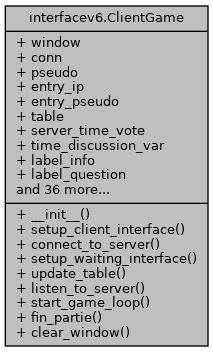
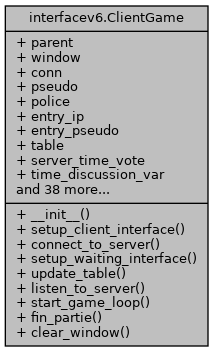
deploy: 827ce9b3ad2253a3373aaa1aae10093dba4a4992

Changed region(s): [[0.1408, 0.0938, 0.6761, 0.5625], [0.6761, 0.4688, 0.7606, 0.5312], [0.6761, 0.4062, 0.7606, 0.4375]]

diff --git a/html/classinterfacev6_1_1HostGame-members.html b/html/classinterfacev6_1_1HostGame-members.html
@@ -88,28 +88,31 @@ $(function() {
   <tr bgcolor="#f0f0f0" class="even"><td class="entry"><b>IP</b> (defined in <a class="el" href="classinterfacev6_1_1HostGame.html">interfacev6.HostGame</a>)</td><td class="entry"><a class="el" href="classinterfacev6_1_1HostGame.html">interfacev6.HostGame</a></td><td class="entry"></td></tr>
   <tr><td class="entry"><a class="el" href="classinterfacev6_1_1HostGame.html#a56428846b9a201a9885fa3160d684f7d">listen_for_clients</a>(self)</td><td class="entry"><a class="el" href="classinterfacev6_1_1HostGame.html">interfacev6.HostGame</a></td><td class="entry"></td></tr>
   <tr bgcolor="#f0f0f0" class="even"><td class="entry"><b>mode</b> (defined in <a class="el" href="classinterfacev6_1_1HostGame.html">interfacev6.HostGame</a>)</td><td class="entry"><a class="el" href="classinterfacev6_1_1HostGame.html">interfacev6.HostGame</a></td><td class="entry"></td></tr>
-  <tr><td class="entry"><a class="el" href="classinterfacev6_1_1HostGame.html#abfedbd58d3091729c78088427e80f7d2">on_window_close</a>(self)</td><td class="entry"><a class="el" href="classinterfacev6_1_1HostGame.html">interfacev6.HostGame</a></td><td class="entry"></td></tr>
-  <tr class="even"><td class="entry"><a class="el" href="classinterfacev6_1_1HostGame.html#a1d2d3b781bbcf1045a2733b1bc65d0d5">parcourir</a>(self)</td><td class="entry"><a class="el" href="classinterfacev6_1_1HostGame.html">interfacev6.HostGame</a></td><td class="entry"></td></tr>
+  <tr bgcolor="#f0f0f0"><td class="entry"><b>mode_banner</b> (defined in <a class="el" href="classinterfacev6_1_1HostGame.html">interfacev6.HostGame</a>)</td><td class="entry"><a class="el" href="classinterfacev6_1_1HostGame.html">interfacev6.HostGame</a></td><td class="entry"></td></tr>
+  <tr class="even"><td class="entry"><a class="el" href="classinterfacev6_1_1HostGame.html#abfedbd58d3091729c78088427e80f7d2">on_window_close</a>(self)</td><td class="entry"><a class="el" href="classinterfacev6_1_1HostGame.html">interfacev6.HostGame</a></td><td class="entry"></td></tr>
+  <tr><td class="entry"><a class="el" href="classinterfacev6_1_1HostGame.html#a1d2d3b781bbcf1045a2733b1bc65d0d5">parcourir</a>(self)</td><td class="entry"><a class="el" href="classinterfacev6_1_1HostGame.html">interfacev6.HostGame</a></td><td class="entry"></td></tr>
+  <tr bgcolor="#f0f0f0" class="even"><td class="entry"><b>parent</b> (defined in <a class="el" href="classinterfacev6_1_1HostGame.html">interfacev6.HostGame</a>)</td><td class="entry"><a class="el" href="classinterfacev6_1_1HostGame.html">interfacev6.HostGame</a></td><td class="entry"></td></tr>
   <tr><td class="entry"><a class="el" href="classinterfacev6_1_1HostGame.html#a9f2917aa5d8121963e96839f6a00e943">paused</a></td><td class="entry"><a class="el" href="classinterfacev6_1_1HostGame.html">interfacev6.HostGame</a></td><td class="entry"></td></tr>
-  <tr bgcolor="#f0f0f0" class="even"><td class="entry"><b>PORT</b> (defined in <a class="el" href="classinterfacev6_1_1HostGame.html">interfacev6.HostGame</a>)</td><td class="entry"><a class="el" href="classinterfacev6_1_1HostGame.html">interfacev6.HostGame</a></td><td class="entry"></td></tr>
-  <tr bgcolor="#f0f0f0"><td class="entry"><b>pseudo_list</b> (defined in <a class="el" href="classinterfacev6_1_1HostGame.html">interfacev6.HostGame</a>)</td><td class="entry"><a class="el" href="classinterfacev6_1_1HostGame.html">interfacev6.HostGame</a></td><td class="entry"></td></tr>
-  <tr bgcolor="#f0f0f0" class="even"><td class="entry"><b>resultat</b> (defined in <a class="el" href="classinterfacev6_1_1HostGame.html">interfacev6.HostGame</a>)</td><td class="entry"><a class="el" href="classinterfacev6_1_1HostGame.html">interfacev6.HostGame</a></td><td class="entry"></td></tr>
-  <tr bgcolor="#f0f0f0"><td class="entry"><b>server_socket</b> (defined in <a class="el" href="classinterfacev6_1_1HostGame.html">interfacev6.HostGame</a>)</td><td class="entry"><a class="el" href="classinterfacev6_1_1HostGame.html">interfacev6.HostGame</a></td><td class="entry"></td></tr>
-  <tr bgcolor="#f0f0f0" class="even"><td class="entry"><b>server_thread</b> (defined in <a class="el" href="classinterfacev6_1_1HostGame.html">interfacev6.HostGame</a>)</td><td class="entry"><a class="el" href="classinterfacev6_1_1HostGame.html">interfacev6.HostGame</a></td><td class="entry"></td></tr>
-  <tr><td class="entry"><a class="el" href="classinterfacev6_1_1HostGame.html#a09efd650f6be7e1ff68a61d6db20fc78">setup_host_interface</a>(self)</td><td class="entry"><a class="el" href="classinterfacev6_1_1HostGame.html">interfacev6.HostGame</a></td><td class="entry"></td></tr>
-  <tr class="even"><td class="entry"><a class="el" href="classinterfacev6_1_1HostGame.html#a11f53d892508a0cd7a52ef3b9e9b1e76">start_game</a>(self)</td><td class="entry"><a class="el" href="classinterfacev6_1_1HostGame.html">interfacev6.HostGame</a></td><td class="entry"></td></tr>
-  <tr><td class="entry"><a class="el" href="classinterfacev6_1_1HostGame.html#a781cefc62b73ce4b10acc6ef547325c0">start_game_loop</a>(self)</td><td class="entry"><a class="el" href="classinterfacev6_1_1HostGame.html">interfacev6.HostGame</a></td><td class="entry"></td></tr>
-  <tr class="even"><td class="entry"><a class="el" href="classinterfacev6_1_1HostGame.html#a540f26cf803274e80af10d623d546dd6">start_server_thread</a>(self)</td><td class="entry"><a class="el" href="classinterfacev6_1_1HostGame.html">interfacev6.HostGame</a></td><td class="entry"></td></tr>
-  <tr bgcolor="#f0f0f0"><td class="entry"><b>started</b> (defined in <a class="el" href="classinterfacev6_1_1HostGame.html">interfacev6.HostGame</a>)</td><td class="entry"><a class="el" href="classinterfacev6_1_1HostGame.html">interfacev6.HostGame</a></td><td class="entry"></td></tr>
-  <tr bgcolor="#f0f0f0" class="even"><td class="entry"><b>stop_server</b> (defined in <a class="el" href="classinterfacev6_1_1HostGame.html">interfacev6.HostGame</a>)</td><td class="entry"><a class="el" href="classinterfacev6_1_1HostGame.html">interfacev6.HostGame</a></td><td class="entry"></td></tr>
-  <tr bgcolor="#f0f0f0"><td class="entry"><b>table</b> (defined in <a class="el" href="classinterfacev6_1_1HostGame.html">interfacev6.HostGame</a>)</td><td class="entry"><a class="el" href="classinterfacev6_1_1HostGame.html">interfacev6.HostGame</a></td><td class="entry"></td></tr>
-  <tr bgcolor="#f0f0f0" class="even"><td class="entry"><b>time_discussion_entry</b> (defined in <a class="el" href="classinterfacev6_1_1HostGame.html">interfacev6.HostGame</a>)</td><td class="entry"><a class="el" href="classinterfacev6_1_1HostGame.html">interfacev6.HostGame</a></td><td class="entry"></td></tr>
-  <tr bgcolor="#f0f0f0"><td class="entry"><b>time_discussion_var</b> (defined in <a class="el" href="classinterfacev6_1_1HostGame.html">interfacev6.HostGame</a>)</td><td class="entry"><a class="el" href="classinterfacev6_1_1HostGame.html">interfacev6.HostGame</a></td><td class="entry"></td></tr>
-  <tr bgcolor="#f0f0f0" class="even"><td class="entry"><b>time_vote_entry</b> (defined in <a class="el" href="classinterfacev6_1_1HostGame.html">interfacev6.HostGame</a>)</td><td class="entry"><a class="el" href="classinterfacev6_1_1HostGame.html">interfacev6.HostGame</a></td><td class="entry"></td></tr>
-  <tr bgcolor="#f0f0f0"><td class="entry"><b>time_vote_var</b> (defined in <a class="el" href="classinterfacev6_1_1HostGame.html">interfacev6.HostGame</a>)</td><td class="entry"><a class="el" href="classinterfacev6_1_1HostGame.html">interfacev6.HostGame</a></td><td class="entry"></td></tr>
-  <tr class="even"><td class="entry"><a class="el" href="classinterfacev6_1_1HostGame.html#a312d3ac36fa72afc23f6dd1d39577027">update_table</a>(self)</td><td class="entry"><a class="el" href="classinterfacev6_1_1HostGame.html">interfacev6.HostGame</a></td><td class="entry"></td></tr>
-  <tr bgcolor="#f0f0f0"><td class="entry"><b>votes</b> (defined in <a class="el" href="classinterfacev6_1_1HostGame.html">interfacev6.HostGame</a>)</td><td class="entry"><a class="el" href="classinterfacev6_1_1HostGame.html">interfacev6.HostGame</a></td><td class="entry"></td></tr>
-  <tr bgcolor="#f0f0f0" class="even"><td class="entry"><b>window</b> (defined in <a class="el" href="classinterfacev6_1_1HostGame.html">interfacev6.HostGame</a>)</td><td class="entry"><a class="el" href="classinterfacev6_1_1HostGame.html">interfacev6.HostGame</a></td><td class="entry"></td></tr>
+  <tr bgcolor="#f0f0f0" class="even"><td class="entry"><b>police</b> (defined in <a class="el" href="classinterfacev6_1_1HostGame.html">interfacev6.HostGame</a>)</td><td class="entry"><a class="el" href="classinterfacev6_1_1HostGame.html">interfacev6.HostGame</a></td><td class="entry"></td></tr>
+  <tr bgcolor="#f0f0f0"><td class="entry"><b>PORT</b> (defined in <a class="el" href="classinterfacev6_1_1HostGame.html">interfacev6.HostGame</a>)</td><td class="entry"><a class="el" href="classinterfacev6_1_1HostGame.html">interfacev6.HostGame</a></td><td class="entry"></td></tr>
+  <tr bgcolor="#f0f0f0" class="even"><td class="entry"><b>pseudo_list</b> (defined in <a class="el" href="classinterfacev6_1_1HostGame.html">interfacev6.HostGame</a>)</td><td class="entry"><a class="el" href="classinterfacev6_1_1HostGame.html">interfacev6.HostGame</a></td><td class="entry"></td></tr>
+  <tr bgcolor="#f0f0f0"><td class="entry"><b>resultat</b> (defined in <a class="el" href="classinterfacev6_1_1HostGame.html">interfacev6.HostGame</a>)</td><td class="entry"><a class="el" href="classinterfacev6_1_1HostGame.html">interfacev6.HostGame</a></td><td class="entry"></td></tr>
+  <tr bgcolor="#f0f0f0" class="even"><td class="entry"><b>server_socket</b> (defined in <a class="el" href="classinterfacev6_1_1HostGame.html">interfacev6.HostGame</a>)</td><td class="entry"><a class="el" href="classinterfacev6_1_1HostGame.html">interfacev6.HostGame</a></td><td class="entry"></td></tr>
+  <tr bgcolor="#f0f0f0"><td class="entry"><b>server_thread</b> (defined in <a class="el" href="classinterfacev6_1_1HostGame.html">interfacev6.HostGame</a>)</td><td class="entry"><a class="el" href="classinterfacev6_1_1HostGame.html">interfacev6.HostGame</a></td><td class="entry"></td></tr>
+  <tr class="even"><td class="entry"><a class="el" href="classinterfacev6_1_1HostGame.html#a09efd650f6be7e1ff68a61d6db20fc78">setup_host_interface</a>(self)</td><td class="entry"><a class="el" href="classinterfacev6_1_1HostGame.html">interfacev6.HostGame</a></td><td class="entry"></td></tr>
+  <tr><td class="entry"><a class="el" href="classinterfacev6_1_1HostGame.html#a11f53d892508a0cd7a52ef3b9e9b1e76">start_game</a>(self)</td><td class="entry"><a class="el" href="classinterfacev6_1_1HostGame.html">interfacev6.HostGame</a></td><td class="entry"></td></tr>
+  <tr class="even"><td class="entry"><a class="el" href="classinterfacev6_1_1HostGame.html#a781cefc62b73ce4b10acc6ef547325c0">start_game_loop</a>(self)</td><td class="entry"><a class="el" href="classinterfacev6_1_1HostGame.html">interfacev6.HostGame</a></td><td class="entry"></td></tr>
+  <tr><td class="entry"><a class="el" href="classinterfacev6_1_1HostGame.html#a540f26cf803274e80af10d623d546dd6">start_server_thread</a>(self)</td><td class="entry"><a class="el" href="classinterfacev6_1_1HostGame.html">interfacev6.HostGame</a></td><td class="entry"></td></tr>
+  <tr bgcolor="#f0f0f0" class="even"><td class="entry"><b>started</b> (defined in <a class="el" href="classinterfacev6_1_1HostGame.html">interfacev6.HostGame</a>)</td><td class="entry"><a class="el" href="classinterfacev6_1_1HostGame.html">interfacev6.HostGame</a></td><td class="entry"></td></tr>
+  <tr bgcolor="#f0f0f0"><td class="entry"><b>stop_server</b> (defined in <a class="el" href="classinterfacev6_1_1HostGame.html">interfacev6.HostGame</a>)</td><td class="entry"><a class="el" href="classinterfacev6_1_1HostGame.html">interfacev6.HostGame</a></td><td class="entry"></td></tr>
+  <tr bgcolor="#f0f0f0" class="even"><td class="entry"><b>table</b> (defined in <a class="el" href="classinterfacev6_1_1HostGame.html">interfacev6.HostGame</a>)</td><td class="entry"><a class="el" href="classinterfacev6_1_1HostGame.html">interfacev6.HostGame</a></td><td class="entry"></td></tr>
+  <tr bgcolor="#f0f0f0"><td class="entry"><b>time_discussion_entry</b> (defined in <a class="el" href="classinterfacev6_1_1HostGame.html">interfacev6.HostGame</a>)</td><td class="entry"><a class="el" href="classinterfacev6_1_1HostGame.html">interfacev6.HostGame</a></td><td class="entry"></td></tr>
+  <tr bgcolor="#f0f0f0" class="even"><td class="entry"><b>time_discussion_var</b> (defined in <a class="el" href="classinterfacev6_1_1HostGame.html">interfacev6.HostGame</a>)</td><td class="entry"><a class="el" href="classinterfacev6_1_1HostGame.html">interfacev6.HostGame</a></td><td class="entry"></td></tr>
+  <tr bgcolor="#f0f0f0"><td class="entry"><b>time_vote_entry</b> (defined in <a class="el" href="classinterfacev6_1_1HostGame.html">interfacev6.HostGame</a>)</td><td class="entry"><a class="el" href="classinterfacev6_1_1HostGame.html">interfacev6.HostGame</a></td><td class="entry"></td></tr>
+  <tr bgcolor="#f0f0f0" class="even"><td class="entry"><b>time_vote_var</b> (defined in <a class="el" href="classinterfacev6_1_1HostGame.html">interfacev6.HostGame</a>)</td><td class="entry"><a class="el" href="classinterfacev6_1_1HostGame.html">interfacev6.HostGame</a></td><td class="entry"></td></tr>
+  <tr><td class="entry"><a class="el" href="classinterfacev6_1_1HostGame.html#a312d3ac36fa72afc23f6dd1d39577027">update_table</a>(self)</td><td class="entry"><a class="el" href="classinterfacev6_1_1HostGame.html">interfacev6.HostGame</a></td><td class="entry"></td></tr>
+  <tr bgcolor="#f0f0f0" class="even"><td class="entry"><b>votes</b> (defined in <a class="el" href="classinterfacev6_1_1HostGame.html">interfacev6.HostGame</a>)</td><td class="entry"><a class="el" href="classinterfacev6_1_1HostGame.html">interfacev6.HostGame</a></td><td class="entry"></td></tr>
+  <tr bgcolor="#f0f0f0"><td class="entry"><b>window</b> (defined in <a class="el" href="classinterfacev6_1_1HostGame.html">interfacev6.HostGame</a>)</td><td class="entry"><a class="el" href="classinterfacev6_1_1HostGame.html">interfacev6.HostGame</a></td><td class="entry"></td></tr>
 </table></div><!-- contents -->
 <!-- start footer part -->
 <hr class="footer"/><address class="footer"><small>

diff --git a/html/classinterfacev6_1_1HostGame.html b/html/classinterfacev6_1_1HostGame.html
@@ -118,6 +118,9 @@ Public Member Functions</h2></td></tr>
 </table><table class="memberdecls">
 <tr class="heading"><td colspan="2"><h2 class="groupheader"><a name="pub-attribs"></a>
 Public Attributes</h2></td></tr>
+<tr class="memitem:a5328909b6154b5bed914061279eef3b4"><td class="memItemLeft" align="right" valign="top"><a id="a5328909b6154b5bed914061279eef3b4"></a>
+&#160;</td><td class="memItemRight" valign="bottom"><b>parent</b></td></tr>
+<tr class="separator:a5328909b6154b5bed914061279eef3b4"><td class="memSeparator" colspan="2">&#160;</td></tr>
 <tr class="memitem:ab62100487b5157e6ad52b36ba27d4a4d"><td class="memItemLeft" align="right" valign="top"><a id="ab62100487b5157e6ad52b36ba27d4a4d"></a>
 &#160;</td><td class="memItemRight" valign="bottom"><b>PORT</b></td></tr>
 <tr class="separator:ab62100487b5157e6ad52b36ba27d4a4d"><td class="memSeparator" colspan="2">&#160;</td></tr>
@@ -142,9 +145,15 @@ Public Attributes</h2></td></tr>
 <tr class="memitem:a87b3e2d88edc38a6935b1b1f2d83d79b"><td class="memItemLeft" align="right" valign="top"><a id="a87b3e2d88edc38a6935b1b1f2d83d79b"></a>
 &#160;</td><td class="memItemRight" valign="bottom"><b>window</b></td></tr>
 <tr class="separator:a87b3e2d88edc38a6935b1b1f2d83d79b"><td class="memSeparator" colspan="2">&#160;</td></tr>
+<tr class="memitem:a7a326b80cd5ea5c98e8272a588677ca1"><td class="memItemLeft" align="right" valign="top"><a id="a7a326b80cd5ea5c98e8272a588677ca1"></a>
+&#160;</td><td class="memItemRight" valign="bottom"><b>police</b></td></tr>
+<tr class="separator:a7a326b80cd5ea5c98e8272a588677ca1"><td class="memSeparator" colspan="2">&#160;</td></tr>
 <tr class="memitem:a40670f5da334987b8ba4d7c4fba8ff5f"><td class="memItemLeft" align="right" valign="top"><a id="a40670f5da334987b8ba4d7c4fba8ff5f"></a>
 &#160;</td><td class="memItemRight" valign="bottom"><b>table</b></td></tr>
 <tr class="separator:a40670f5da334987b8ba4d7c4fba8ff5f"><td class="memSeparator" colspan="2">&#160;</td></tr>
+<tr class="memitem:a41515d446186859ce69962a1ab845c49"><td class="memItemLeft" align="right" valign="top"><a id="a41515d446186859ce69962a1ab845c49"></a>
+&#160;</td><td class="memItemRight" valign="bottom"><b>mode_banner</b></td></tr>
+<tr class="separator:a41515d446186859ce69962a1ab845c49"><td class="memSeparator" colspan="2">&#160;</td></tr>
 <tr class="memitem:ac4ece4f13047e180a6ec39b22d9322c4"><td class="memItemLeft" align="right" valign="top"><a id="ac4ece4f13047e180a6ec39b22d9322c4"></a>
 &#160;</td><td class="memItemRight" valign="bottom"><b>choix_var</b></td></tr>
 <tr class="separator:ac4ece4f13047e180a6ec39b22d9322c4"><td class="memSeparator" colspan="2">&#160;</td></tr>

diff --git a/html/classinterfacev6_1_1ClientGame-members.html b/html/classinterfacev6_1_1ClientGame-members.html
@@ -114,6 +114,8 @@ $(function() {
   <tr bgcolor="#f0f0f0" class="even"><td class="entry"><b>label_question</b> (defined in <a class="el" href="classinterfacev6_1_1ClientGame.html">interfacev6.ClientGame</a>)</td><td class="entry"><a class="el" href="classinterfacev6_1_1ClientGame.html">interfacev6.ClientGame</a></td><td class="entry"></td></tr>
   <tr bgcolor="#f0f0f0"><td class="entry"><b>label_vote</b> (defined in <a class="el" href="classinterfacev6_1_1ClientGame.html">interfacev6.ClientGame</a>)</td><td class="entry"><a class="el" href="classinterfacev6_1_1ClientGame.html">interfacev6.ClientGame</a></td><td class="entry"></td></tr>
   <tr class="even"><td class="entry"><a class="el" href="classinterfacev6_1_1ClientGame.html#a8f59072f388172f6f576d519ee8accfc">listen_to_server</a>(self)</td><td class="entry"><a class="el" href="classinterfacev6_1_1ClientGame.html">interfacev6.ClientGame</a></td><td class="entry"></td></tr>
+  <tr bgcolor="#f0f0f0"><td class="entry"><b>parent</b> (defined in <a class="el" href="classinterfacev6_1_1ClientGame.html">interfacev6.ClientGame</a>)</td><td class="entry"><a class="el" href="classinterfacev6_1_1ClientGame.html">interfacev6.ClientGame</a></td><td class="entry"></td></tr>
+  <tr bgcolor="#f0f0f0" class="even"><td class="entry"><b>police</b> (defined in <a class="el" href="classinterfacev6_1_1ClientGame.html">interfacev6.ClientGame</a>)</td><td class="entry"><a class="el" href="classinterfacev6_1_1ClientGame.html">interfacev6.ClientGame</a></td><td class="entry"></td></tr>
   <tr bgcolor="#f0f0f0"><td class="entry"><b>pseudo</b> (defined in <a class="el" href="classinterfacev6_1_1ClientGame.html">interfacev6.ClientGame</a>)</td><td class="entry"><a class="el" href="classinterfacev6_1_1ClientGame.html">interfacev6.ClientGame</a></td><td class="entry"></td></tr>
   <tr bgcolor="#f0f0f0" class="even"><td class="entry"><b>remaining_time</b> (defined in <a class="el" href="classinterfacev6_1_1ClientGame.html">interfacev6.ClientGame</a>)</td><td class="entry"><a class="el" href="classinterfacev6_1_1ClientGame.html">interfacev6.ClientGame</a></td><td class="entry"></td></tr>
   <tr bgcolor="#f0f0f0"><td class="entry"><b>server_time_vote</b> (defined in <a class="el" href="classinterfacev6_1_1ClientGame.html">interfacev6.ClientGame</a>)</td><td class="entry"><a class="el" href="classinterfacev6_1_1ClientGame.html">interfacev6.ClientGame</a></td><td class="entry"></td></tr>

diff --git a/html/classinterfacev6_1_1ClientGame.html b/html/classinterfacev6_1_1ClientGame.html
@@ -106,6 +106,9 @@ Public Member Functions</h2></td></tr>
 </table><table class="memberdecls">
 <tr class="heading"><td colspan="2"><h2 class="groupheader"><a name="pub-attribs"></a>
 Public Attributes</h2></td></tr>
+<tr class="memitem:a5c70389c71d7d4370c3582e362c69b23"><td class="memItemLeft" align="right" valign="top"><a id="a5c70389c71d7d4370c3582e362c69b23"></a>
+&#160;</td><td class="memItemRight" valign="bottom"><b>parent</b></td></tr>
+<tr class="separator:a5c70389c71d7d4370c3582e362c69b23"><td class="memSeparator" colspan="2">&#160;</td></tr>
 <tr class="memitem:aadcb5a8fd8a5cba3030796f8021b09d5"><td class="memItemLeft" align="right" valign="top"><a id="aadcb5a8fd8a5cba3030796f8021b09d5"></a>
 &#160;</td><td class="memItemRight" valign="bottom"><b>window</b></td></tr>
 <tr class="separator:aadcb5a8fd8a5cba3030796f8021b09d5"><td class="memSeparator" colspan="2">&#160;</td></tr>
@@ -115,6 +118,9 @@ Public Attributes</h2></td></tr>
 <tr class="memitem:aa1b16ea5488e3762083f830f2621e091"><td class="memItemLeft" align="right" valign="top"><a id="aa1b16ea5488e3762083f830f2621e091"></a>
 &#160;</td><td class="memItemRight" valign="bottom"><b>pseudo</b></td></tr>
 <tr class="separator:aa1b16ea5488e3762083f830f2621e091"><td class="memSeparator" colspan="2">&#160;</td></tr>
+<tr class="memitem:aeab2a0eb86669b6128bc1706222f24f1"><td class="memItemLeft" align="right" valign="top"><a id="aeab2a0eb86669b6128bc1706222f24f1"></a>
+&#160;</td><td class="memItemRight" valign="bottom"><b>police</b></td></tr>
+<tr class="separator:aeab2a0eb86669b6128bc1706222f24f1"><td class="memSeparator" colspan="2">&#160;</td></tr>
 <tr class="memitem:a5813293434ab324b91eae33ece76a67a"><td class="memItemLeft" align="right" valign="top"><a id="a5813293434ab324b91eae33ece76a67a"></a>
 &#160;</td><td class="memItemRight" valign="bottom"><b>entry_ip</b></td></tr>
 <tr class="separator:a5813293434ab324b91eae33ece76a67a"><td class="memSeparator" colspan="2">&#160;</td></tr>
